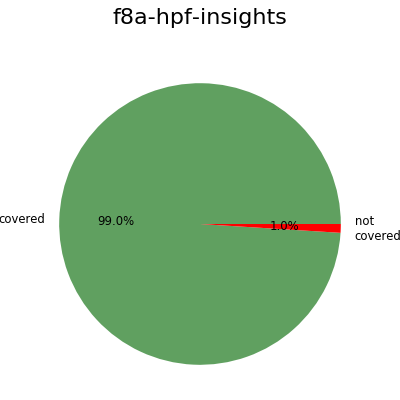
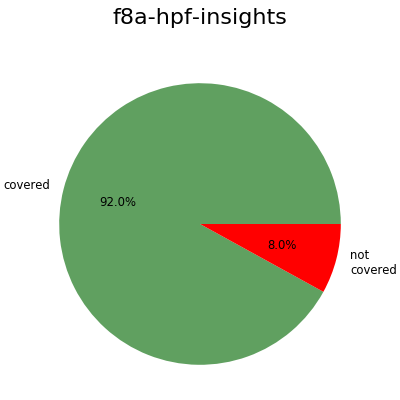
Dashboard 2018-08-14

diff --git a/dashboard/dashboard.html b/dashboard/dashboard.html
@@ -178,7 +178,7 @@ Please note that only semantical problems are reported; problems with style are 
                         <tr>
                             <td style="width:33ex"><a href="https://github.com/fabric8-analytics/fabric8-analytics-common">fabric8-analytics-common</a></td>
                             <td class="numeric" style="width:7ex"><a href="repository_fabric8-analytics-common.html">105</a></td>
-                            <td class="numeric" style="width:7ex">13574</td>
+                            <td class="numeric" style="width:7ex">13569</td>
                                 <td class="numeric ok" style="width:6ex">105</td>
                                 <td class="numeric error" style="width:6ex">0</td>
                                 <td class="numeric" style="width:16ex">
@@ -203,7 +203,7 @@ Please note that only semantical problems are reported; problems with style are 
 
                                     <td class="numeric ok"><a href="fabric8-analytics-common.common_errors.txt" class="numeric ok">ok</a></td>
 
-                                    <td class="numeric error"><a href="fabric8-analytics-common.common_errors.txt" class="numeric error">25</a></td>
+                                    <td class="numeric error"><a href="fabric8-analytics-common.common_errors.txt" class="numeric error">10</a></td>
 
                                 <td class="numeric ignored" style="width:3ex;padding-left:0px;padding-right:2px;"><a href="fabric8-analytics-common.cc.A.html" class="numeric ignored">914</a></td>
                                 <td class="numeric ignored" style="width:3ex;padding-left:0px;padding-right:2px;"><a href="fabric8-analytics-common.cc.B.html" class="numeric ignored">54</a></td>
@@ -569,12 +569,12 @@ Please note that only semantical problems are reported; problems with style are 
                                         </div>
                                     </a>
                                 </td>
-                                <td class="numeric ok" style="width:6ex">650</td>
-                                <td class="numeric error" style="width:6ex">34</td>
+                                <td class="numeric ok" style="width:6ex">697</td>
+                                <td class="numeric error" style="width:6ex">42</td>
                                 <td class="numeric" style="width:16ex">
                                     <a href="fabric8-analytics-data-model.coverage.txt">
-                                        <div class='progress-bar progress-bar-success progress-bar-striped' style='width:95.75%'>
-                                        95%
+                                        <div class='progress-bar progress-bar-success progress-bar-striped' style='width:94.89999999999999%'>
+                                        94%
                                         </div>
                                     </a>
                                 </td>
@@ -1126,7 +1126,7 @@ Please note that only semantical problems are reported; problems with style are 
                         <tr>
                             <td style="width:33ex"><a href="https://github.com/fabric8-analytics/f8a-hpf-insights">f8a-hpf-insights</a></td>
                             <td class="numeric" style="width:7ex"><a href="repository_f8a-hpf-insights.html">23</a></td>
-                            <td class="numeric" style="width:7ex">939</td>
+                            <td class="numeric" style="width:7ex">945</td>
                                 <td class="numeric ok" style="width:6ex">23</td>
                                 <td class="numeric error" style="width:6ex">0</td>
                                 <td class="numeric" style="width:16ex">
@@ -1145,12 +1145,12 @@ Please note that only semantical problems are reported; problems with style are 
                                         </div>
                                     </a>
                                 </td>
-                                <td class="numeric ok" style="width:6ex">240</td>
-                                <td class="numeric error" style="width:6ex">3</td>
+                                <td class="numeric ok" style="width:6ex">224</td>
+                                <td class="numeric error" style="width:6ex">18</td>
                                 <td class="numeric" style="width:16ex">
                                     <a href="f8a-hpf-insights.coverage.txt">
-                                        <div class='progress-bar progress-bar-success progress-bar-striped' style='width:99.14999999999999%'>
-                                        99%
+                                        <div class='progress-bar progress-bar-success progress-bar-striped' style='width:93.2%'>
+                                        92%
                                         </div>
                                     </a>
                                 </td>
@@ -1455,7 +1455,7 @@ Please note that only semantical problems are reported; problems with style are 
             </div>
             <div style='height:100px'></div>
             <div>Author: Pavel Tisnovsky &lt;<a href="mailto:ptisnovs@redhat.com">ptisnovs@redhat.com</a>&gt;</div>
-            <div>Generated on: 2018-08-13 10:23:18</div>
+            <div>Generated on: 2018-08-14 11:06:58</div>
         </div>
         <script type="text/javascript">
         $(function () {

diff --git a/dashboard/repository_fabric8-analytics-common.html b/dashboard/repository_fabric8-analytics-common.html
@@ -182,7 +182,7 @@
                     </tr>
                     <tr>
                         <td><a href="https://github.com/fabric8-analytics/fabric8-analytics-common/blob/master/integration-tests/features/src/schemas/component_security_issues.py">integration-tests/features/src/schemas/component_security_issues.py</a></td>
-                        <td class="numeric">48</td>
+                        <td class="numeric">47</td>
                             <td class="boolean ok">&#x2713;</td>
                             <td class="boolean ok">&#x2713;</td>
                     </tr>
@@ -212,7 +212,7 @@
                     </tr>
                     <tr>
                         <td><a href="https://github.com/fabric8-analytics/fabric8-analytics-common/blob/master/integration-tests/features/src/schemas/component_metadata.py">integration-tests/features/src/schemas/component_metadata.py</a></td>
-                        <td class="numeric">100</td>
+                        <td class="numeric">99</td>
                             <td class="boolean ok">&#x2713;</td>
                             <td class="boolean ok">&#x2713;</td>
                     </tr>
@@ -242,19 +242,19 @@
                     </tr>
                     <tr>
                         <td><a href="https://github.com/fabric8-analytics/fabric8-analytics-common/blob/master/integration-tests/features/src/schemas/package_toplevel.py">integration-tests/features/src/schemas/package_toplevel.py</a></td>
-                        <td class="numeric">40</td>
+                        <td class="numeric">39</td>
                             <td class="boolean ok">&#x2713;</td>
                             <td class="boolean ok">&#x2713;</td>
                     </tr>
                     <tr>
                         <td><a href="https://github.com/fabric8-analytics/fabric8-analytics-common/blob/master/integration-tests/features/src/schemas/package_keywords_tagging.py">integration-tests/features/src/schemas/package_keywords_tagging.py</a></td>
-                        <td class="numeric">107</td>
+                        <td class="numeric">106</td>
                             <td class="boolean ok">&#x2713;</td>
                             <td class="boolean ok">&#x2713;</td>
                     </tr>
                     <tr>
                         <td><a href="https://github.com/fabric8-analytics/fabric8-analytics-common/blob/master/integration-tests/features/src/schemas/component_keywords_tagging.py">integration-tests/features/src/schemas/component_keywords_tagging.py</a></td>
-                        <td class="numeric">52</td>
+                        <td class="numeric">51</td>
                             <td class="boolean ok">&#x2713;</td>
                             <td class="boolean ok">&#x2713;</td>
                     </tr>
@@ -266,7 +266,7 @@
                     </tr>
                     <tr>
                         <td><a href="https://github.com/fabric8-analytics/fabric8-analytics-common/blob/master/integration-tests/features/src/schemas/package_libraries_io.py">integration-tests/features/src/schemas/package_libraries_io.py</a></td>
-                        <td class="numeric">100</td>
+                        <td class="numeric">99</td>
                             <td class="boolean ok">&#x2713;</td>
                             <td class="boolean ok">&#x2713;</td>
                     </tr>
@@ -284,7 +284,7 @@
                     </tr>
                     <tr>
                         <td><a href="https://github.com/fabric8-analytics/fabric8-analytics-common/blob/master/integration-tests/features/src/parsing.py">integration-tests/features/src/parsing.py</a></td>
-                        <td class="numeric">44</td>
+                        <td class="numeric">45</td>
                             <td class="boolean ok">&#x2713;</td>
                             <td class="boolean ok">&#x2713;</td>
                     </tr>
@@ -658,7 +658,7 @@
             </div>
             <div style='height:100px'></div>
             <div>Author: Pavel Tisnovsky &lt;<a href="mailto:ptisnovs@redhat.com">ptisnovs@redhat.com</a>&gt;</div>
-            <div>Generated on: 2018-08-13 10:23:18</div>
+            <div>Generated on: 2018-08-14 11:06:58</div>
         </div>
     </body>
 </html>

diff --git a/dashboard/f8a-hpf-insights.cc.A.html b/dashboard/f8a-hpf-insights.cc.A.html
@@ -7,12 +7,12 @@
     <span style="color:#00AA00">M </span>32:4 TestFlaskMethods.test_companion_recommendations - <span style="color:#00AA00">A (1)</span>
 tests/unit_tests/test_scoring_hpf_scoring.py
     <span style="color:#00AA00">M </span>20:4 TestHPFScoringMethods.test_basic_object - <span style="color:#00AA00">B (8)</span>
-    <span style="color:#00AA00">M </span>91:4 TestHPFScoringMethods.test_predict - <span style="color:#00AA00">B (7)</span>
+    <span style="color:#00AA00">M </span>92:4 TestHPFScoringMethods.test_predict - <span style="color:#00AA00">B (7)</span>
     <span style="color:#00AA00">M </span>64:4 TestHPFScoringMethods.test_folding_in - <span style="color:#00AA00">B (6)</span>
     <span style="color:#00AAAA">C </span>11:0 TestHPFScoringMethods - <span style="color:#00AA00">A (3)</span>
     <span style="color:#00AA00">M </span>30:4 TestHPFScoringMethods.test_normalise_result - <span style="color:#00AA00">A (3)</span>
-    <span style="color:#00AA00">M </span>113:4 TestHPFScoringMethods.test_model_details - <span style="color:#00AA00">A (2)</span>
-    <span style="color:#00AA00">M </span>122:4 TestHPFScoringMethods.test_get_sizeof - <span style="color:#00AA00">A (2)</span>
+    <span style="color:#00AA00">M </span>114:4 TestHPFScoringMethods.test_model_details - <span style="color:#00AA00">A (2)</span>
+    <span style="color:#00AA00">M </span>123:4 TestHPFScoringMethods.test_get_sizeof - <span style="color:#00AA00">A (2)</span>
     <span style="color:#00AA00">M </span>14:4 TestHPFScoringMethods.__init__ - <span style="color:#00AA00">A (1)</span>
     <span style="color:#00AA00">M </span>52:4 TestHPFScoringMethods.test_filter_recommendations - <span style="color:#00AA00">A (1)</span>
 tests/unit_tests/test_local_datastore.py
@@ -72,14 +72,14 @@ src/data_store/s3_data_store.py
     <span style="color:#00AA00">M </span>68:4 S3DataStore.iterate_bucket_items - <span style="color:#00AA00">A (1)</span>
     <span style="color:#00AA00">M </span>79:4 S3DataStore.list_folders - <span style="color:#00AA00">A (1)</span>
 src/scoring/hpf_scoring.py
+    <span style="color:#00AA00">M </span>168:4 HPFScoring.match_manifest - <span style="color:#00AA00">A (5)</span>
     <span style="color:#00AA00">M </span>136:4 HPFScoring.predict - <span style="color:#00AA00">A (4)</span>
-    <span style="color:#00AA00">M </span>168:4 HPFScoring.match_manifest - <span style="color:#00AA00">A (4)</span>
-    <span style="color:#00AA00">M </span>183:4 HPFScoring.folding_in - <span style="color:#00AA00">A (4)</span>
-    <span style="color:#00AA00">M </span>202:4 HPFScoring.normalize_result - <span style="color:#00AA00">A (4)</span>
+    <span style="color:#00AA00">M </span>188:4 HPFScoring.folding_in - <span style="color:#00AA00">A (4)</span>
+    <span style="color:#00AA00">M </span>207:4 HPFScoring.normalize_result - <span style="color:#00AA00">A (4)</span>
     <span style="color:#00AA00">M </span>122:4 HPFScoring.load_jsons - <span style="color:#00AA00">A (3)</span>
     <span style="color:#00AAAA">C </span>38:0 HPFScoring - <span style="color:#00AA00">A (2)</span>
     <span style="color:#00AA00">M </span>41:4 HPFScoring.__init__ - <span style="color:#00AA00">A (2)</span>
-    <span style="color:#00AA00">M </span>217:4 HPFScoring.filter_recommendation - <span style="color:#00AA00">A (2)</span>
+    <span style="color:#00AA00">M </span>222:4 HPFScoring.filter_recommendation - <span style="color:#00AA00">A (2)</span>
     <span style="color:#00AA00">M </span>66:4 HPFScoring._getsizeof - <span style="color:#00AA00">A (1)</span>
     <span style="color:#00AA00">M </span>74:4 HPFScoring.model_details - <span style="color:#00AA00">A (1)</span>
     <span style="color:#00AA00">M </span>88:4 HPFScoring.load_s3 - <span style="color:#00AA00">A (1)</span>
@@ -92,5 +92,5 @@ perf_tests/locust_tests.py
     <span style="color:#00AAAA">C </span>104:0 HPFInsightsLocust - <span style="color:#00AA00">A (1)</span>
 
 81 blocks (classes, functions, methods) analyzed.
-Average complexity: <span style="color:#00AA00">A (1.8271604938271604)</span>
+Average complexity: <span style="color:#00AA00">A (1.8395061728395061)</span>
 </pre>

diff --git a/dashboard/repository_f8a-hpf-insights.html b/dashboard/repository_f8a-hpf-insights.html
@@ -38,7 +38,7 @@
                     </tr>
                     <tr>
                         <td><a href="https://github.com/fabric8-analytics/f8a-hpf-insights/blob/master/tests/unit_tests/test_scoring_hpf_scoring.py">tests/unit_tests/test_scoring_hpf_scoring.py</a></td>
-                        <td class="numeric">130</td>
+                        <td class="numeric">131</td>
                             <td class="boolean ok">&#x2713;</td>
                             <td class="boolean ok">&#x2713;</td>
                     </tr>
@@ -128,7 +128,7 @@
                     </tr>
                     <tr>
                         <td><a href="https://github.com/fabric8-analytics/f8a-hpf-insights/blob/master/src/scoring/hpf_scoring.py">src/scoring/hpf_scoring.py</a></td>
-                        <td class="numeric">236</td>
+                        <td class="numeric">241</td>
                             <td class="boolean ok">&#x2713;</td>
                             <td class="boolean ok">&#x2713;</td>
                     </tr>
@@ -166,7 +166,7 @@
             </div>
             <div style='height:100px'></div>
             <div>Author: Pavel Tisnovsky &lt;<a href="mailto:ptisnovs@redhat.com">ptisnovs@redhat.com</a>&gt;</div>
-            <div>Generated on: 2018-08-13 10:23:18</div>
+            <div>Generated on: 2018-08-14 11:06:58</div>
         </div>
     </body>
 </html>

diff --git a/dashboard/fabric8-analytics-common.cc.A.html b/dashboard/fabric8-analytics-common.cc.A.html
@@ -283,10 +283,10 @@ integration-tests/features/environment.py
 integration-tests/features/src/schema_validator.py
     <span style="color:#AA00AA">F </span>5:0 validate_schema - <span style="color:#00AA00">A (1)</span>
 integration-tests/features/src/parsing.py
-    <span style="color:#AA00AA">F </span>11:0 parse_float_value_from_text_stream - <span style="color:#00AA00">A (5)</span>
-    <span style="color:#AA00AA">F </span>27:0 parse_token_clause - <span style="color:#00AA00">A (2)</span>
-    <span style="color:#AA00AA">F </span>37:0 parse_number - <span style="color:#00AA00">A (2)</span>
-    <span style="color:#AA00AA">F </span>5:0 parse_timestamp - <span style="color:#00AA00">A (1)</span>
+    <span style="color:#AA00AA">F </span>12:0 parse_float_value_from_text_stream - <span style="color:#00AA00">A (5)</span>
+    <span style="color:#AA00AA">F </span>28:0 parse_token_clause - <span style="color:#00AA00">A (2)</span>
+    <span style="color:#AA00AA">F </span>38:0 parse_number - <span style="color:#00AA00">A (2)</span>
+    <span style="color:#AA00AA">F </span>6:0 parse_timestamp - <span style="color:#00AA00">A (1)</span>
 integration-tests/features/src/utils.py
     <span style="color:#AA00AA">F </span>26:0 which - <span style="color:#00AA00">A (5)</span>
     <span style="color:#AA00AA">F </span>7:0 download_file_from_url - <span style="color:#00AA00">A (4)</span>

diff --git a/dashboard/f8a-hpf-insights.mi.A.html b/dashboard/f8a-hpf-insights.mi.A.html
@@ -1,6 +1,6 @@
 <pre>tests/__init__.py - <span style="color:#00AA00">A (100.00)</span>
 tests/unit_tests/test_flask_endpoint.py - <span style="color:#00AA00">A (66.15)</span>
-tests/unit_tests/test_scoring_hpf_scoring.py - <span style="color:#00AA00">A (57.35)</span>
+tests/unit_tests/test_scoring_hpf_scoring.py - <span style="color:#00AA00">A (57.27)</span>
 tests/unit_tests/__init__.py - <span style="color:#00AA00">A (100.00)</span>
 tests/unit_tests/test_local_datastore.py - <span style="color:#00AA00">A (49.56)</span>
 tests/unit_tests/test_utils.py - <span style="color:#00AA00">A (84.36)</span>
@@ -15,7 +15,7 @@ src/data_store/abstract_data_store.py - <span style="color:#00AA00">A (100.00)</
 src/data_store/local_data_store.py - <span style="color:#00AA00">A (55.87)</span>
 src/data_store/s3_data_store.py - <span style="color:#00AA00">A (76.89)</span>
 src/scoring/__init__.py - <span style="color:#00AA00">A (100.00)</span>
-src/scoring/hpf_scoring.py - <span style="color:#00AA00">A (58.54)</span>
+src/scoring/hpf_scoring.py - <span style="color:#00AA00">A (57.32)</span>
 src/training/__init__.py - <span style="color:#00AA00">A (100.00)</span>
 PoC_code/__init__.py - <span style="color:#00AA00">A (100.00)</span>
 perf_tests/__init__.py - <span style="color:#00AA00">A (100.00)</span>

diff --git a/dashboard/fabric8-analytics-common.mi.A.html b/dashboard/fabric8-analytics-common.mi.A.html
@@ -26,7 +26,7 @@ dashboard/src/git_utils.py - <span style="color:#00AA00">A (60.75)</span>
 dashboard/src/history_generator.py - <span style="color:#00AA00">A (74.45)</span>
 integration-tests/features/environment.py - <span style="color:#00AA00">A (30.15)</span>
 integration-tests/features/src/schema_validator.py - <span style="color:#00AA00">A (100.00)</span>
-integration-tests/features/src/parsing.py - <span style="color:#00AA00">A (80.57)</span>
+integration-tests/features/src/parsing.py - <span style="color:#00AA00">A (79.88)</span>
 integration-tests/features/src/utils.py - <span style="color:#00AA00">A (80.27)</span>
 integration-tests/features/src/graph_db_query.py - <span style="color:#00AA00">A (56.60)</span>
 integration-tests/features/src/MockedResponse.py - <span style="color:#00AA00">A (100.00)</span>

diff --git a/dashboard/f8a-hpf-insights.cc.B.html b/dashboard/f8a-hpf-insights.cc.B.html
@@ -1,6 +1,6 @@
 <pre>tests/unit_tests/test_scoring_hpf_scoring.py
     <span style="color:#00AA00">M </span>20:4 TestHPFScoringMethods.test_basic_object - <span style="color:#00AA00">B (8)</span>
-    <span style="color:#00AA00">M </span>91:4 TestHPFScoringMethods.test_predict - <span style="color:#00AA00">B (7)</span>
+    <span style="color:#00AA00">M </span>92:4 TestHPFScoringMethods.test_predict - <span style="color:#00AA00">B (7)</span>
     <span style="color:#00AA00">M </span>64:4 TestHPFScoringMethods.test_folding_in - <span style="color:#00AA00">B (6)</span>
 
 3 blocks (classes, functions, methods) analyzed.

diff --git a/dashboard/repository_fabric8-analytics-worker.html b/dashboard/repository_fabric8-analytics-worker.html
@@ -1000,7 +1000,7 @@
             </div>
             <div style='height:100px'></div>
             <div>Author: Pavel Tisnovsky &lt;<a href="mailto:ptisnovs@redhat.com">ptisnovs@redhat.com</a>&gt;</div>
-            <div>Generated on: 2018-08-13 10:23:18</div>
+            <div>Generated on: 2018-08-14 11:06:58</div>
         </div>
     </body>
 </html>

diff --git a/dashboard/repository_fabric8-analytics-data-model.html b/dashboard/repository_fabric8-analytics-data-model.html
@@ -154,7 +154,7 @@
             </div>
             <div style='height:100px'></div>
             <div>Author: Pavel Tisnovsky &lt;<a href="mailto:ptisnovs@redhat.com">ptisnovs@redhat.com</a>&gt;</div>
-            <div>Generated on: 2018-08-13 10:23:18</div>
+            <div>Generated on: 2018-08-14 11:06:58</div>
         </div>
     </body>
 </html>

diff --git a/dashboard/repository_fabric8-analytics-ingestion.html b/dashboard/repository_fabric8-analytics-ingestion.html
@@ -100,7 +100,7 @@
             </div>
             <div style='height:100px'></div>
             <div>Author: Pavel Tisnovsky &lt;<a href="mailto:ptisnovs@redhat.com">ptisnovs@redhat.com</a>&gt;</div>
-            <div>Generated on: 2018-08-13 10:23:18</div>
+            <div>Generated on: 2018-08-14 11:06:58</div>
         </div>
     </body>
 </html>

diff --git a/dashboard/repository_fabric8-analytics-jobs.html b/dashboard/repository_fabric8-analytics-jobs.html
@@ -274,7 +274,7 @@
             </div>
             <div style='height:100px'></div>
             <div>Author: Pavel Tisnovsky &lt;<a href="mailto:ptisnovs@redhat.com">ptisnovs@redhat.com</a>&gt;</div>
-            <div>Generated on: 2018-08-13 10:23:18</div>
+            <div>Generated on: 2018-08-14 11:06:58</div>
         </div>
     </body>
 </html>
